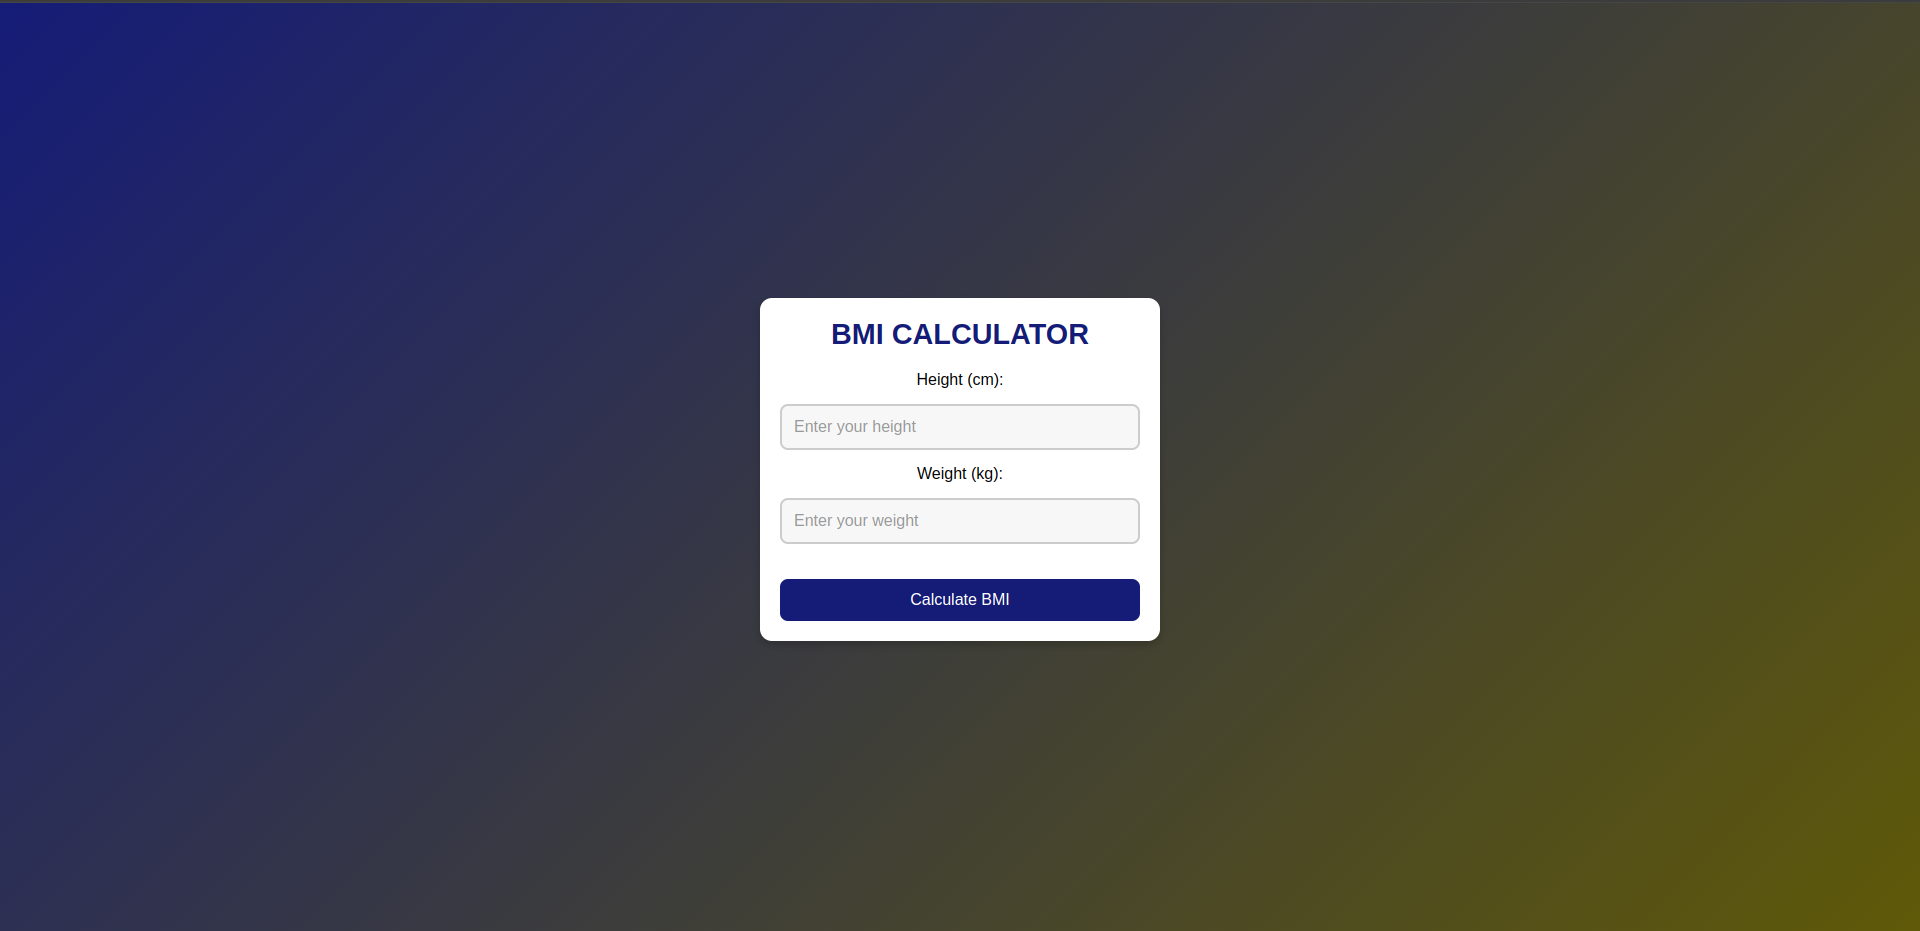
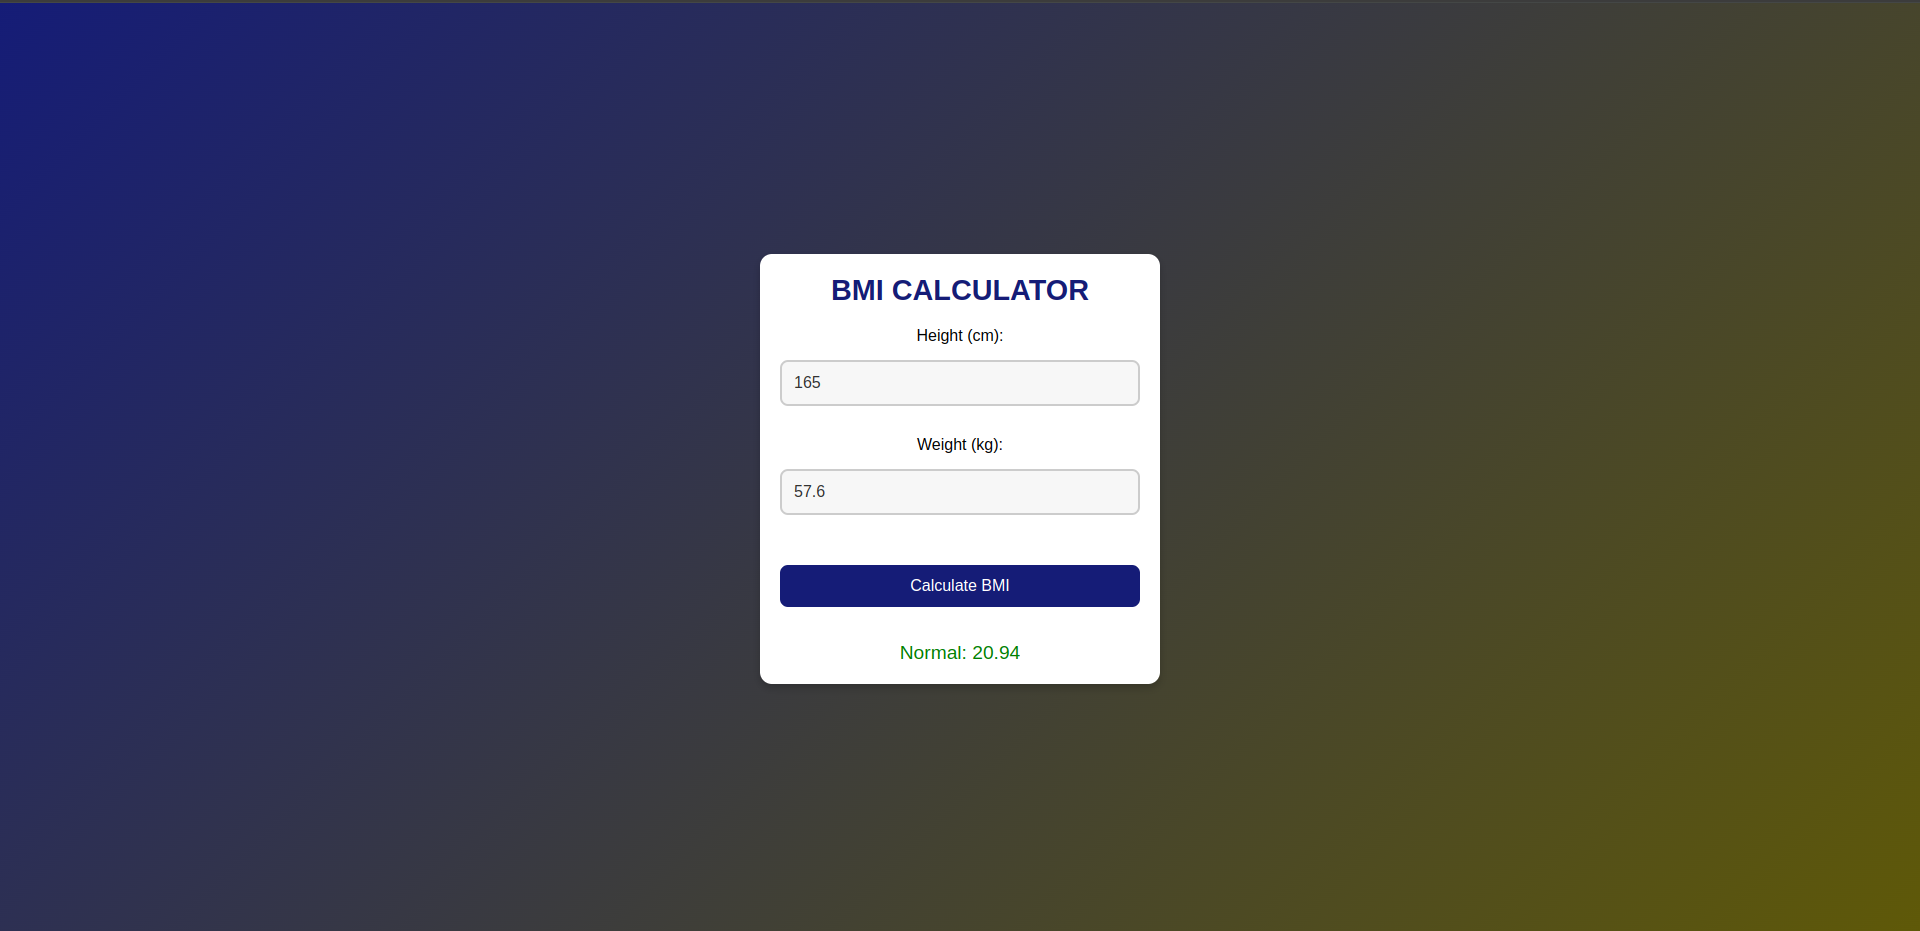
completed project

Changed region(s): [[0.375, 0.4672, 0.625, 0.7476], [0.375, 0.2492, 0.625, 0.4361], [0.4062, 0.4049, 0.4688, 0.4672]]

diff --git a/script.js b/script.js
@@ -1,0 +1,41 @@
+let button = document.getElementById('calculate');
+button.addEventListener('click', () => {
+    const height = parseInt(document.getElementById("height").value);
+    const weight = parseInt(document.getElementById("weight").value);
+    const result = document.getElementById("output");
+
+    let height_status = false, weight_status = false;
+
+    // Clear previous error messages
+    document.getElementById('height_error').innerHTML = '';
+    document.getElementById('weight_error').innerHTML = '';
+
+    // Validate Height
+    if (isNaN(height) || height <= 0) {
+        document.getElementById('height_error').innerHTML = 'Please provide a valid height';
+    } else {
+        height_status = true;
+    }
+
+    // Validate Weight
+    if (isNaN(weight) || weight <= 0) {
+        document.getElementById('weight_error').innerHTML = 'Please provide a valid weight';
+    } else {
+        weight_status = true;
+    }
+
+    // Calculate BMI if both inputs are valid
+    if (height_status && weight_status) {
+        const bmi = (weight / ((height * height) / 10000)).toFixed(2);
+
+        if (bmi < 18.6) {
+            result.innerHTML = `<span style="color: orange;">Under Weight: ${bmi}</span>`;
+        } else if (bmi >= 18.6 && bmi < 24.9) {
+            result.innerHTML = `<span style="color: green;">Normal: ${bmi}</span>`;
+        } else {
+            result.innerHTML = `<span style="color: red;">Overweight: ${bmi}</span>`;
+        }
+    } else {
+        result.innerHTML = ''; // Clear result if inputs are invalid
+    }
+});

diff --git a/index.html b/index.html
@@ -14,12 +14,16 @@
         <div class="calcs">
             <label for="height">Height (cm):</label>
             <input type="text" id="height" class="hw" placeholder="Enter your height">
-            
+            <p id="height_error" style="color: red; font-size: 0.9rem;"></p> <!-- Height error -->
+
             <label for="weight">Weight (kg):</label>
             <input type="text" id="weight" class="hw" placeholder="Enter your weight">
-            
+            <p id="weight_error" style="color: red; font-size: 0.9rem;"></p> <!-- Weight error -->
+
             <button id="calculate">Calculate BMI</button>
+            <p id="output" style="margin-top: 20px; font-size: 1.2rem;"></p> <!-- Result -->
         </div>
     </div>
+    <script src="script.js"></script>
 </body>
 </html>
